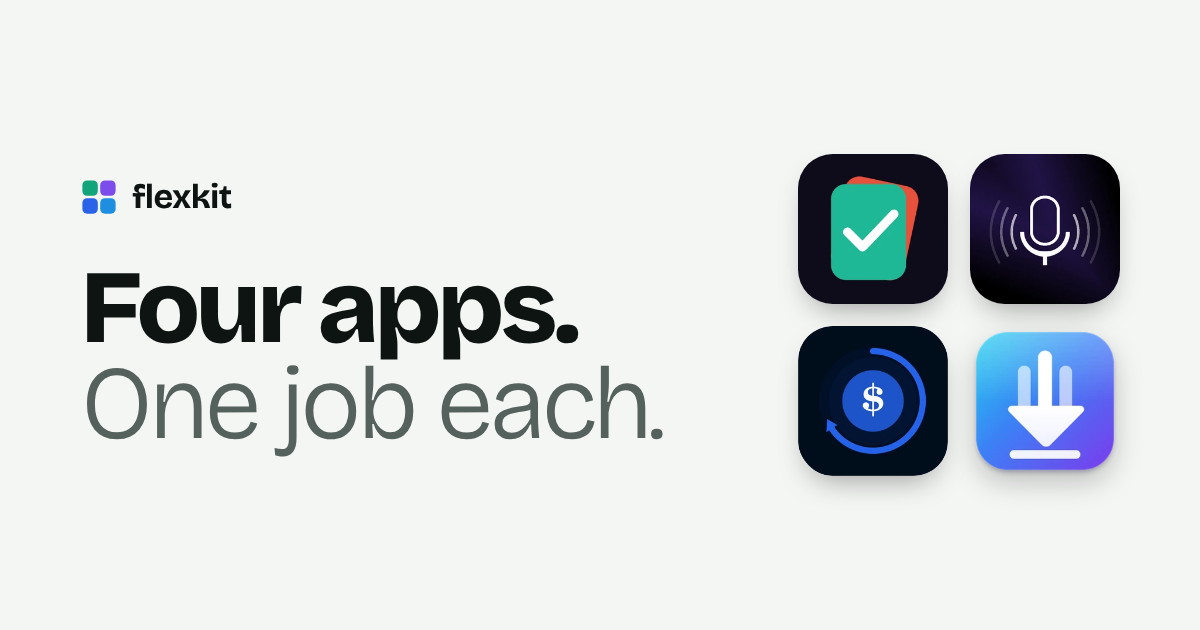
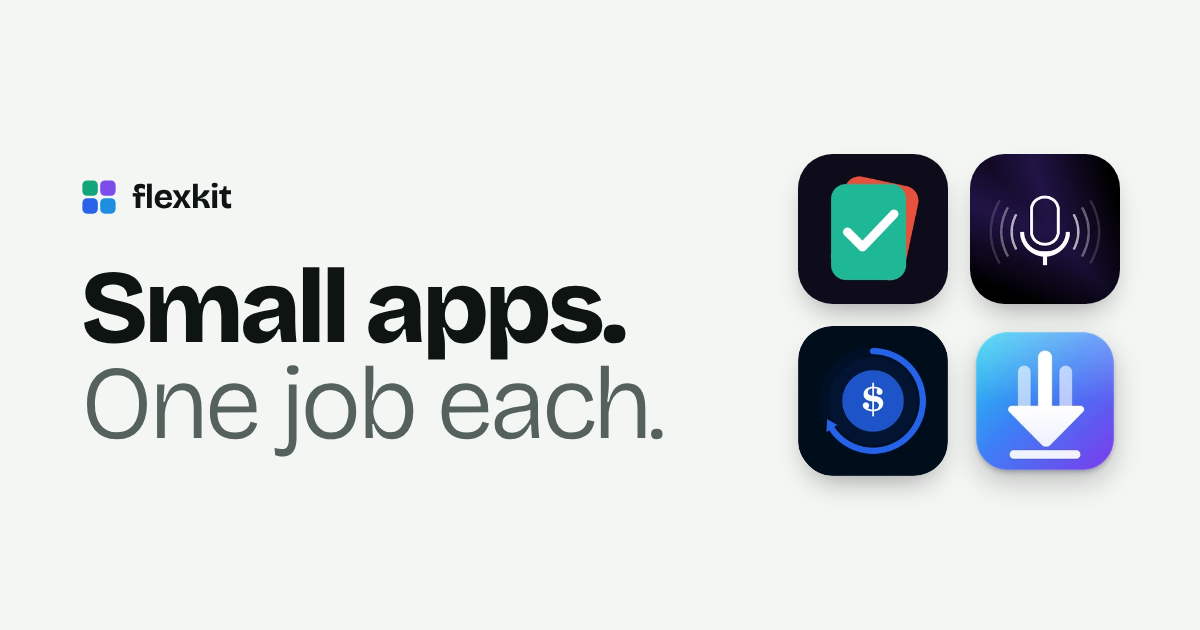
Drop the app count from the headline
The headline now reads "Small apps. One job each." so it stays true as more
apps are added.

Claude-Session: https://claude.ai/code/session_018kJCNENWdSA2dCZEXjhhRH

Changed region(s): [[0.0617, 0.4222, 0.5242, 0.573]]

diff --git a/index.html b/index.html
@@ -3,7 +3,7 @@
 <head>
 <meta charset="utf-8">
 <meta name="viewport" content="width=device-width, initial-scale=1, viewport-fit=cover">
-<title>Flexkit – Four apps. One job each.</title>
+<title>Flexkit – Small apps. One job each.</title>
 <meta name="description" content="Flexkit makes small, focused apps: Swipr cleans your photo gallery, Scribr turns speech into text on your phone, SubTrakr tracks your subscriptions and Loadr downloads big files fast.">
 <meta name="author" content="Flexkit">
 <meta name="color-scheme" content="light dark">
@@ -14,13 +14,13 @@
 <meta property="og:type" content="website">
 <meta property="og:url" content="https://flexkit.net/">
 <meta property="og:site_name" content="Flexkit">
-<meta property="og:title" content="Flexkit – Four apps. One job each.">
+<meta property="og:title" content="Flexkit – Small apps. One job each.">
 <meta property="og:description" content="Swipr, Scribr, SubTrakr and Loadr: small, focused apps for your phone and your desktop.">
 <meta property="og:image" content="https://flexkit.net/og-image.png">
 <meta property="og:image:width" content="1200">
 <meta property="og:image:height" content="630">
 <meta name="twitter:card" content="summary_large_image">
-<meta name="twitter:title" content="Flexkit – Four apps. One job each.">
+<meta name="twitter:title" content="Flexkit – Small apps. One job each.">
 <meta name="twitter:description" content="Swipr, Scribr, SubTrakr and Loadr: small, focused apps for your phone and your desktop.">
 <meta name="twitter:image" content="https://flexkit.net/og-image.png">
 
@@ -117,7 +117,7 @@
   <div class="wrap hero-in">
     <div class="hero-text">
       <p class="eyebrow">Flexkit makes apps</p>
-      <h1>Four apps.<br><span class="h1-b">One job each.</span></h1>
+      <h1>Small apps.<br><span class="h1-b">One job each.</span></h1>
       <p class="lead">Small, focused software for your phone and your desktop. Each app does one thing and does it properly. We left out the&nbsp;<em>e</em>, and everything else you don't need.</p>
     </div>
 

diff --git a/style.css b/style.css
@@ -1,4 +1,4 @@
-/* Layout: a "kit tray" hero (2×2 of the four apps), then one full-width band per app,
+/* Layout: a "kit tray" hero (a grid of the apps), then one full-width band per app,
    each tinted with that app's own colour and carrying a small working demo of the app. */
 
 @font-face { font-family: "Bricolage Grotesque"; src: url("/fonts/bricolage.woff2") format("woff2"); font-weight: 200 800; font-display: swap; }
